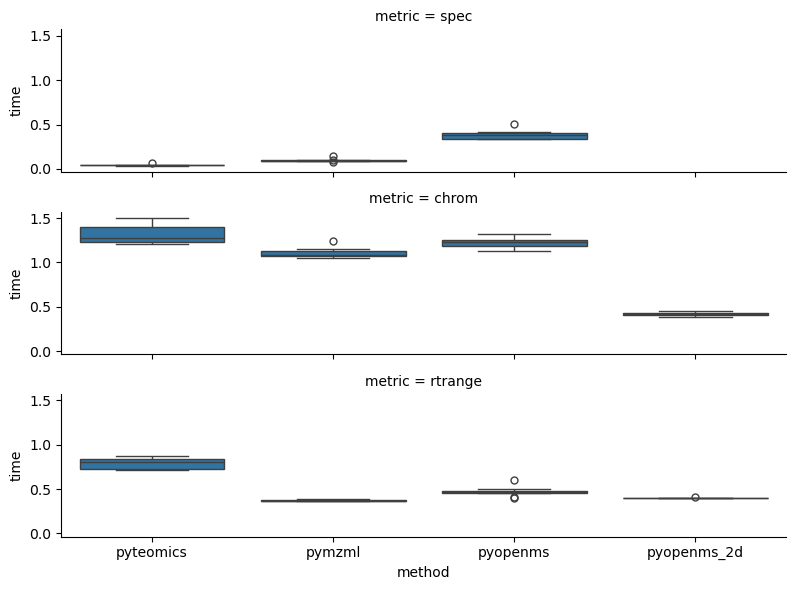
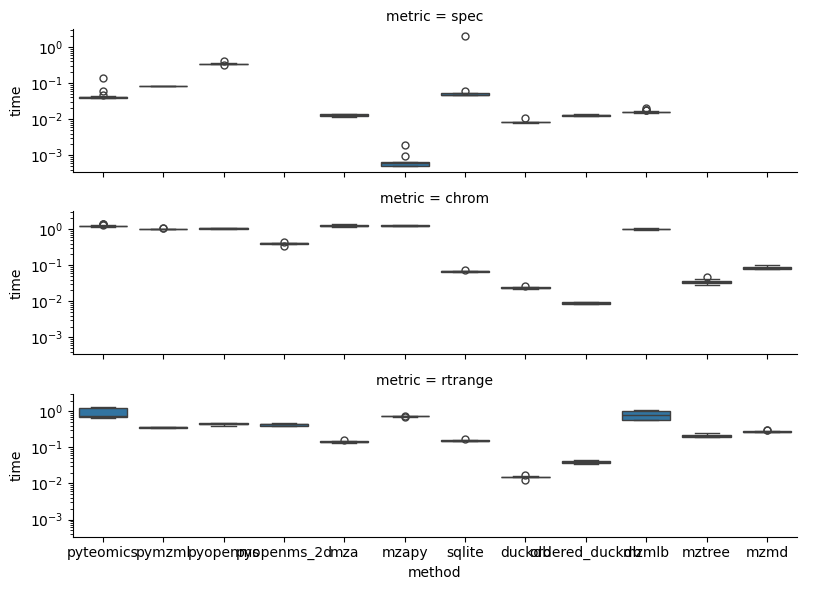
Updating README with more file type access timings

diff --git a/README.md b/README.md
@@ -229,7 +229,9 @@ import pandas as pd
 import matplotlib.pyplot as plt
 import seaborn
 
-timing_data = pd.read_csv("demo_notebooks/compiled_timings.csv")
+timing_data = pd.read_csv("demo_notebooks/compiled_timings.csv", header=None)
+timing_data.columns = ["method", "time", "metric", "timestamp"]
+timing_data.tail()
 
 timings_plot = seaborn.catplot(
     data=timing_data, 
@@ -240,6 +242,7 @@ timings_plot = seaborn.catplot(
     height=2,
     aspect=4
 )
+plt.yscale('log')
 timings_plot.savefig("demo_notebooks/README_files/timings_fig.png")
 plt.close()
 ```
@@ -259,7 +262,7 @@ filesize_df = pd.DataFrame(list(file_sizes.items()), columns=['File', 'Size (MB)
 filesize_df["Size (MB)"] = filesize_df["Size (MB)"]/1e6
 
 # Plot barplot
-sns.barplot(x='File', y='Size (MB)', data=filesize_df)
+seaborn.barplot(x='File', y='Size (MB)', data=filesize_df)
 plt.xticks(rotation=90)
 plt.savefig("demo_notebooks/README_files/filesize_fig.png")
 plt.close()
